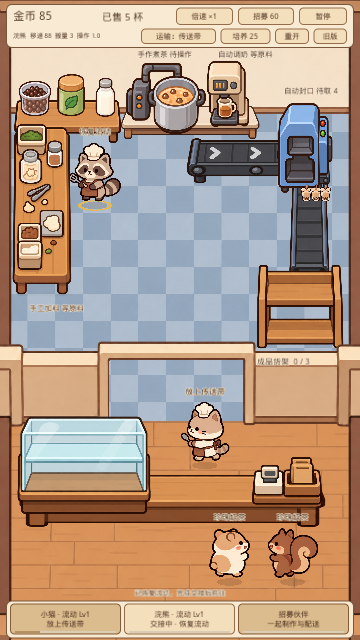
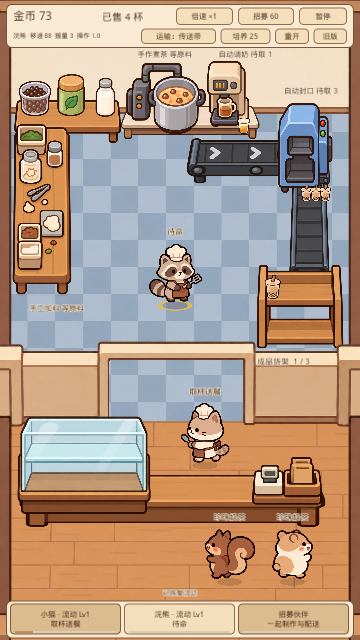
fix: place dragged staff immediately and refund interrupted tasks

diff --git a/docs/qa/staff-posts.md b/docs/qa/staff-posts.md
@@ -5,9 +5,11 @@
 ## 操作
 
 - 按住场景中的动物或底部员工卡，拖到煮茶台/左侧加料长桌：坐班。
-- 拖到可走空白地面：恢复流动。动物实际行走到目标，不会瞬移。
+- 拖到可走空白地面：松手立即放到目标通行格，并恢复流动；从落点开始运动，不再从旧位置走过来。
+- 拖到人工工位：松手立即放到该工位操作点并坐班。拖动预览显示实际落位位置。
 - 已有人坐班的岗位、自动机器、墙体和其他无效地面会拒绝拖放，保留原安排。
-- 忙碌时先完成手中任务再移动；底部卡片显示坐班/流动和交接状态。
+- 忙碌时拖放会立即中断当前任务，手中货物退回来源，再从落点重新接活。未完成的操作物料留在原工位；订单和库存占用同时释放。
+- 搬运期间保留来源退货容量；已经启动的独立机器和传送带运输继续运行。
 - ESC 或触摸取消可撤回拖拽。多指不能抢走当前手指的拖拽。
 - 唯一员工坐班后，会提示缺少流动员工；拖回空地即可恢复。
 
@@ -23,10 +25,10 @@
 
 ## 验证结果
 
-- 新增10个模拟用例；完整回归95个用例，0失败。
-- 坐班位置、岗位独占、拒绝自动/占用/非法位置、忙碌操作与携带物品交接、解除后恢复服务、软疲劳不解锁、满库存煮茶等均已覆盖。
+- 完整回归98个用例，0失败；新增直接落位、任务各阶段取消退货、来源容量保留、多员工反复拖放验证。
+- 坐班位置、岗位独占、拒绝自动/占用/非法位置、忙碌操作与携带物品中断退款、解除后恢复服务、软疲劳不解锁、满库存煮茶等均已覆盖。
 - 原有11个试玩模拟用例继续通过，默认全流动的单人闭环和两种运输仍可运行。
-- `tests/render_staff_posts.gd` 实际发送鼠标和触摸输入：身体/卡片拖拽、普通点击、空地解除、岗位占用拒绝、自动机器拒绝、墙体拒绝、ESC、缩放后的拖放、携货改岗与重开。
+- `tests/render_staff_posts.gd` 实际发送鼠标和触摸输入：身体/卡片拖拽立即落位、普通点击、空地解除、岗位占用拒绝、自动机器拒绝、墙体拒绝、ESC、缩放后的拖放、携货中断归还与重开。
 - 触摸回归覆盖单指身体/卡片、第二指移动/松手不提交、所属手指系统取消不改岗，以及没有员工候选时失焦清理指针。
 - `canvas_items` 缩放模式下，测试输入从逻辑画布坐标换算到窗口像素；使用明确的事件刷新保证注入顺序。
 - 真实岗位 GUI/渲染验证0失败。

diff --git a/docs/design/staff-task-logistics.md b/docs/design/staff-task-logistics.md
@@ -37,10 +37,13 @@
 
 - 可从场景内动物身体或底部员工卡开始拖动；普通点击仍只选择员工，不改变岗位。
 - 拖到煮茶台或左侧加料台：锁定该人工岗位。拖动期间显示工位范围、操作点和目标反馈。
-- 拖到可行走空白地面：解除坐班，恢复流动；员工实际走向落点，不因拖放瞬移。
+- 拖到可行走空白地面：解除坐班，恢复流动；松手时员工立即放到落点所在的通行格，从这里重新接活，不再从旧位置走来。
 - 自动调奶、自动封口不接受坐班；墙体、家具障碍、场景外和已被其他员工锁定的岗位均拒绝落位，并保留原安排。本版不自动交换两名员工。
-- 接受改岗后立即预占新岗位，防止其他员工同时绑定。若已有工作或正在携带物品，先完成当前原子任务和物流交付，再走到新操作点或空地；界面显示交接中，不丢弃货物或重复释放库存。
-- 到达坐班操作点后只执行本站操作；原料/成品的取放点与操作点分开，运输仍交给流动员工。
+- 拖到人工工位时，松手后直接放到该工位操作点并锁定岗位，防止其他员工同时绑定。
+- 2026-10-29 玩家反馈后调整：有效拖放立即中断当前任务，携带货物退回原来源，释放本次任务的取货、目的地、操作和订单占用；未完成的人工操作不产生成品，物料保留在原工位。员工随后从落点重新接活。
+- 携带期间为货物保留来源的退回空间，避免多人生产补满原来源后，拖放退货导致超出容量。无限原料源的退回同步撤销已领取原料计数；取消配送不结算销售或任务完成。
+- 已经放上传送带的货物继续运输，独立加热或自动机器已经开始的加工继续运行；拖走员工仅中断该员工当前尚未完成的任务。
+- 坐班员工只执行本站操作；原料/成品的取放点与操作点分开，运输仍交给流动员工。
 - ESC、触摸取消和窗口失焦取消未提交的拖拽。触摸绑定发起手指，其他手指不得接管、松手提交或改变目标。
 - 单员工坐班导致没有流动员工时，持续提示搬运将等待，玩家可拖回空地恢复。
 

diff --git a/docs/superpowers/plans/2026-10-29-drag-staff-posts.md b/docs/superpowers/plans/2026-10-29-drag-staff-posts.md
@@ -1,5 +1,7 @@
 # Drag Staff to Seated or Mobile Posts Implementation Plan
 
+> Historical implementation record: the original walking/deferred handoff below was superseded by the user's 2026-10-29 feedback. Valid drag release now places the employee immediately, cancels its current task and returns cargo to its source. Current behavior and verification are recorded in docs/design/staff-task-logistics.md and docs/qa/staff-posts.md.
+
 > **For agentic workers:** Use superpowers:subagent-driven-development; complete and review simulation assignment and real GUI drag integration.
 
 **Goal:** Drag an animal onto a manual workstation to seat it; drag onto walkable blank ground to release it into mobile work.
